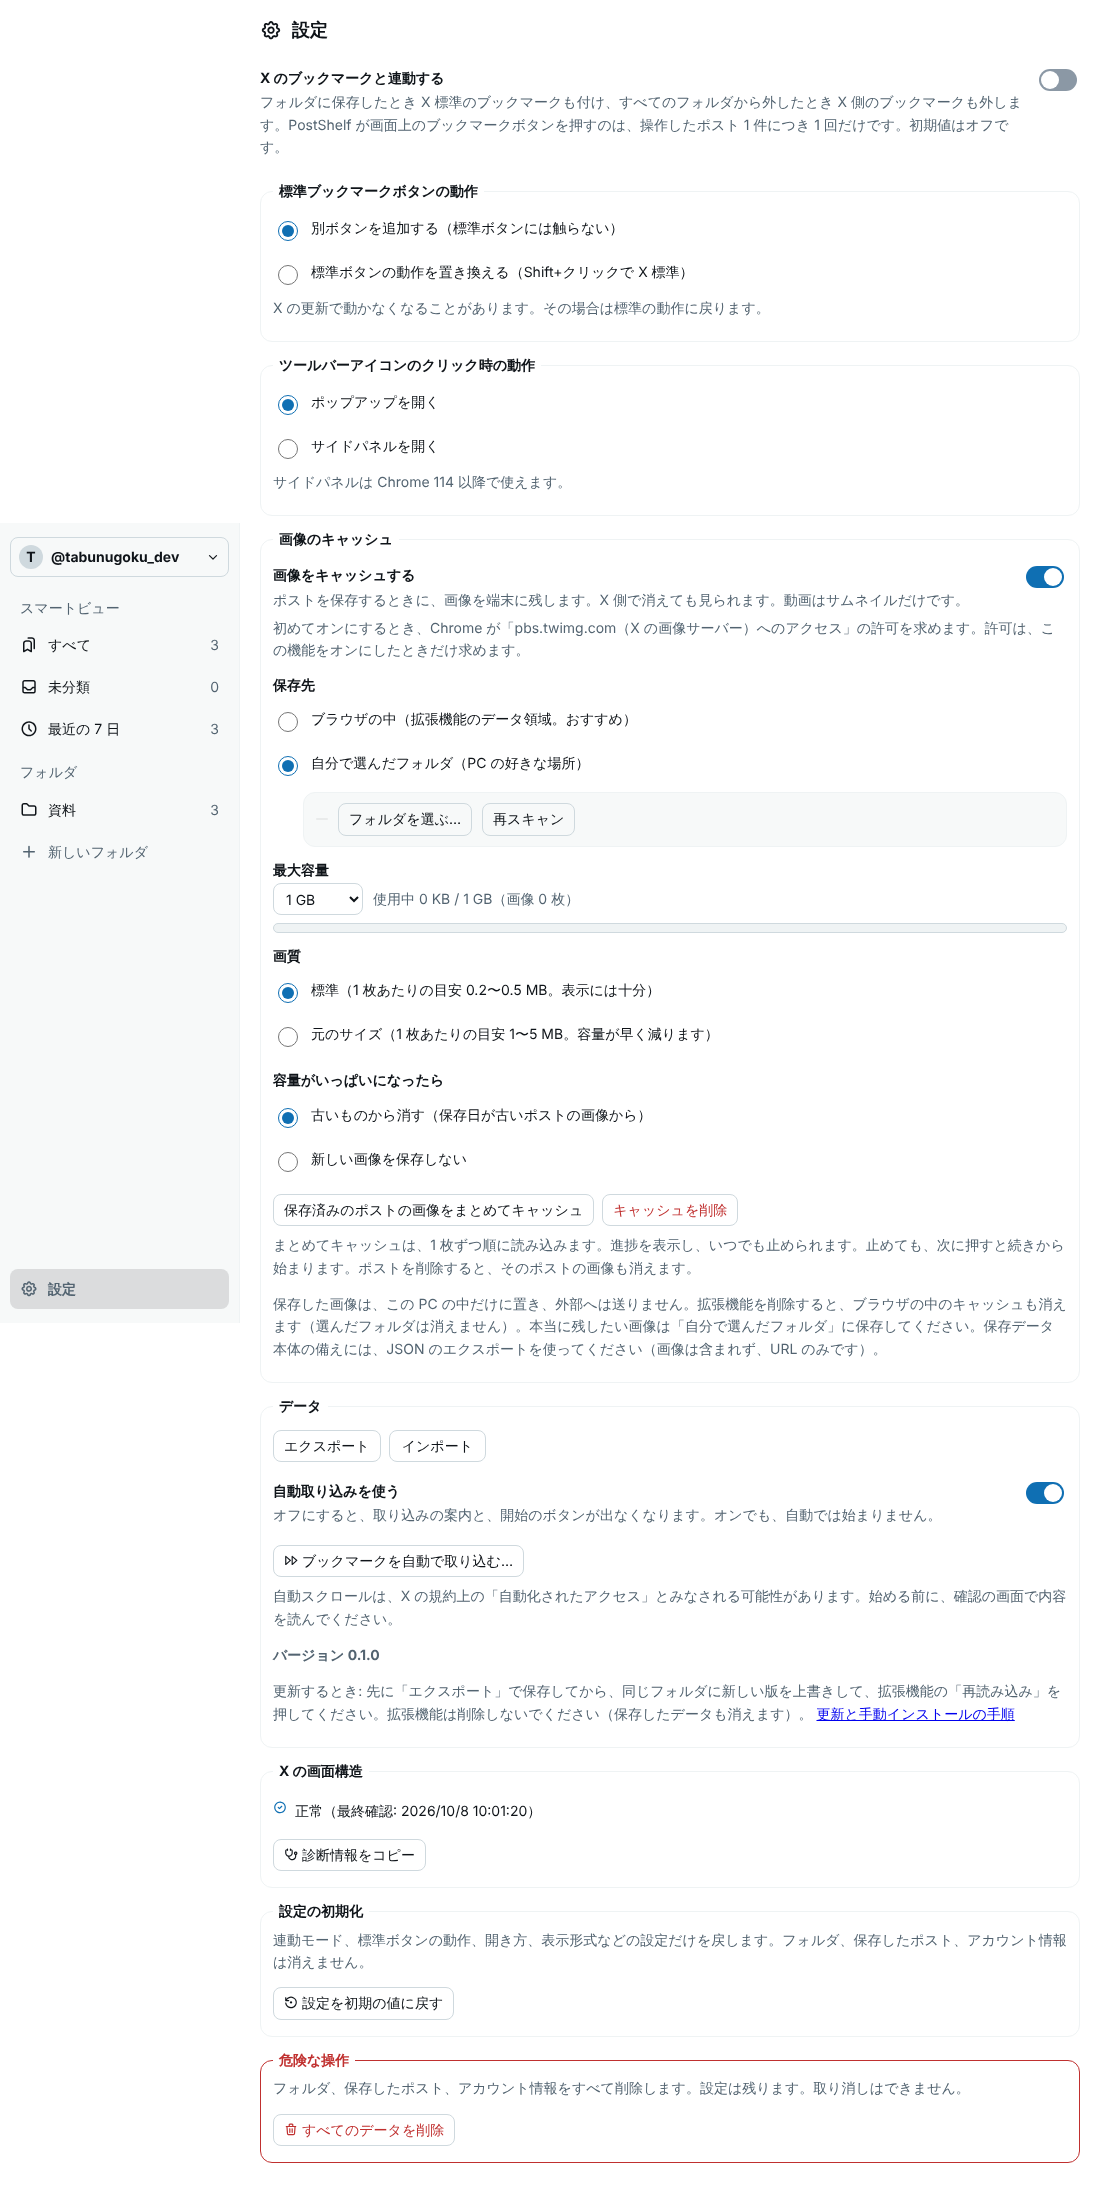
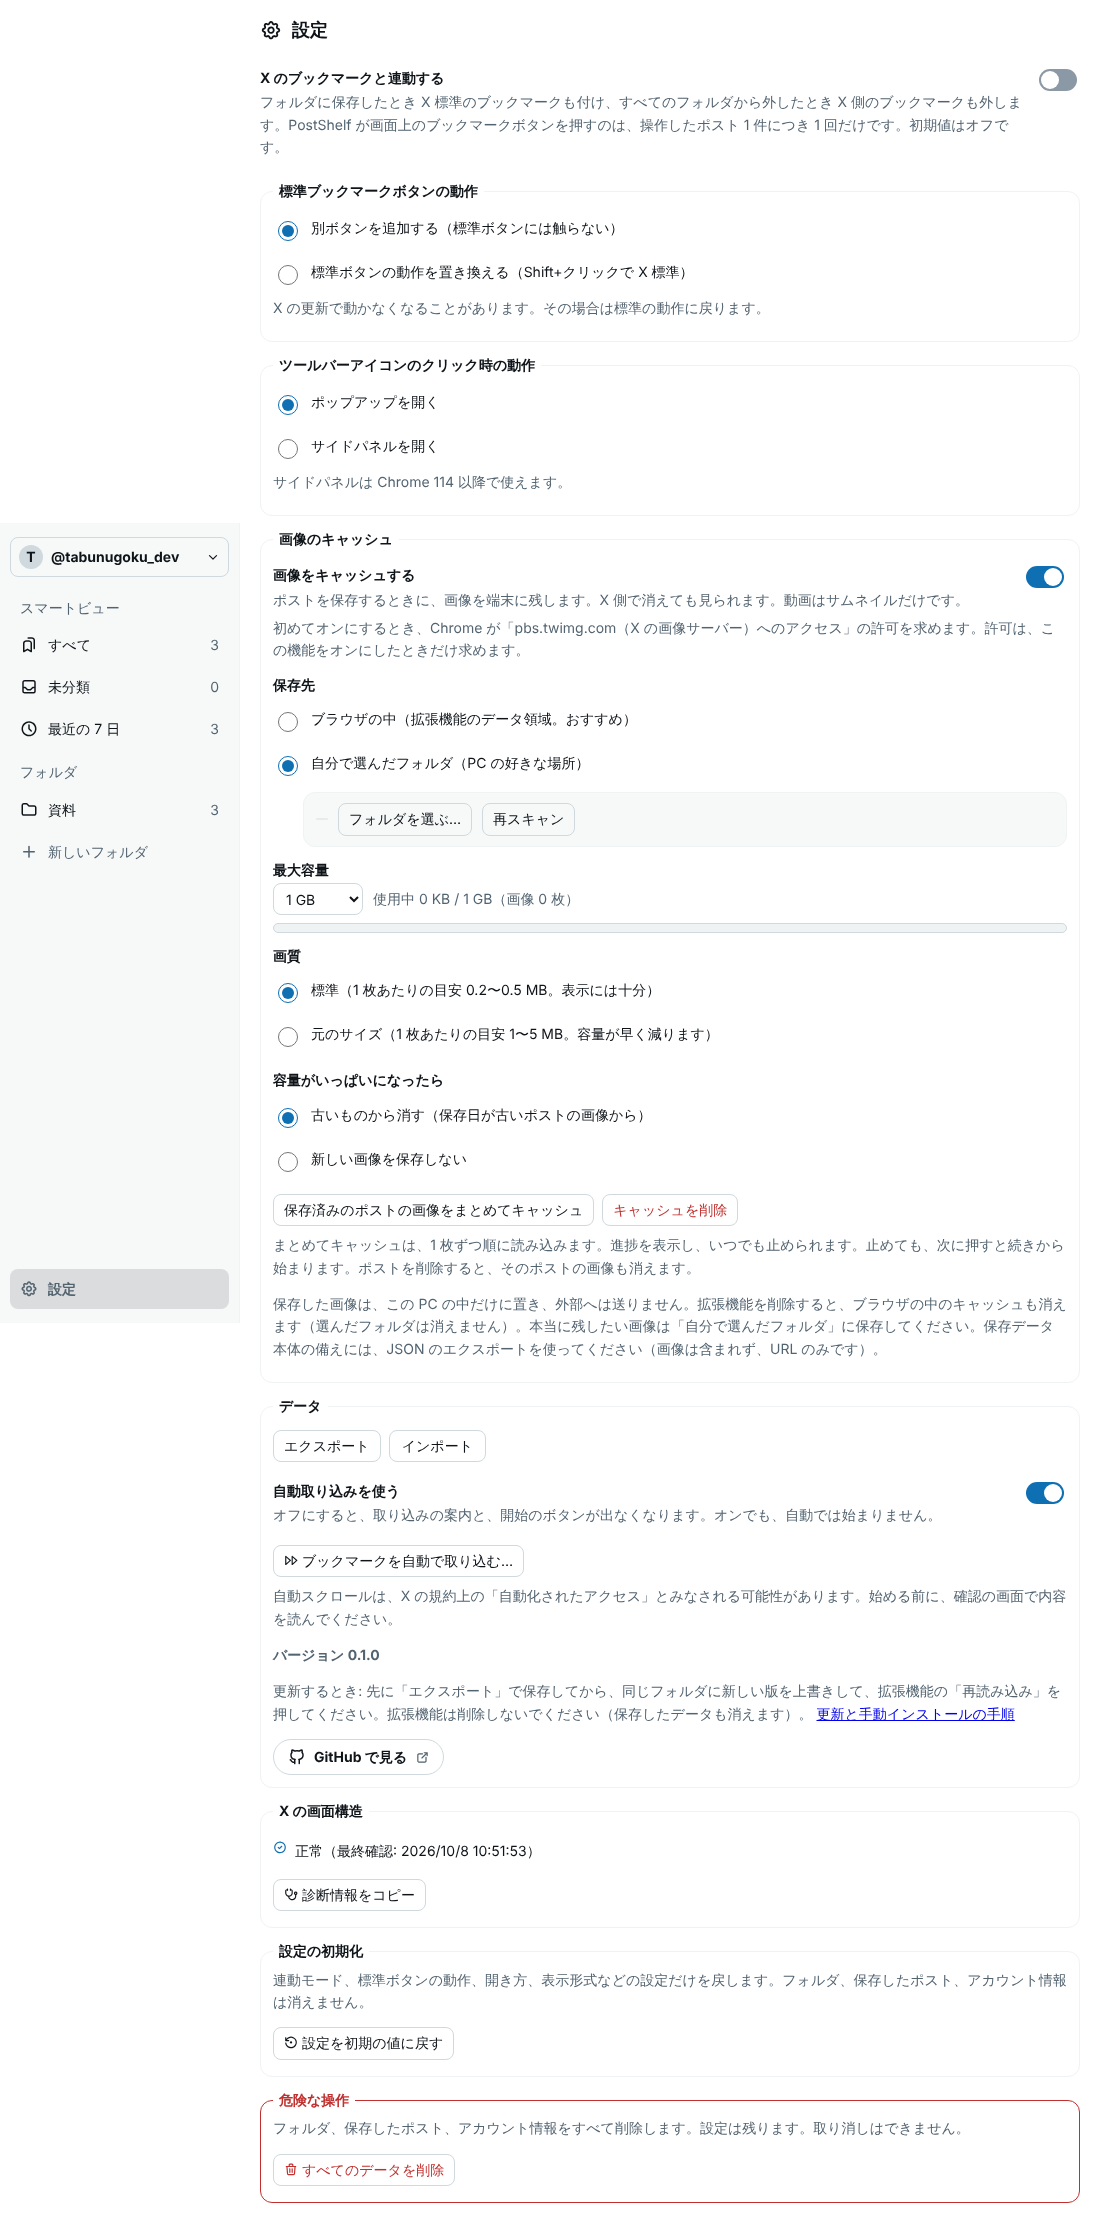
v23-B: GitHub のリンクのテスト、MANUAL_TEST、PUBLISH の確認項目、スクリーンショットの撮り直し
Claude-Session: https://claude.ai/code/session_01LnJgDCHXRj2XU4oDVsQkv2

diff --git a/test/v23.test.tsx b/test/v23.test.tsx
@@ -1,0 +1,64 @@
+import { act } from 'preact/test-utils';
+import { render } from 'preact';
+import { readFileSync, readdirSync } from 'node:fs';
+import { join } from 'node:path';
+import { afterEach, beforeEach, describe, expect, it } from 'vitest';
+import { installChromeMock } from './chrome-mock';
+import { SettingsPage } from '../src/manager/Settings';
+import { REPO_URL } from '../src/shared/links';
+
+const $ = <T extends Element>(s: string) => document.querySelector<T>(s)!;
+
+beforeEach(async () => {
+  installChromeMock();
+  document.body.innerHTML = '<div id="app"></div>';
+  await act(() => void render(<SettingsPage onChanged={() => {}} onApplied={() => {}} onNotice={() => {}} />, $('#app')));
+  await act(() => new Promise<void>((r) => setTimeout(r, 20)));
+});
+afterEach(() => render(null, $('#app')));
+
+describe('v23: 設定画面の GitHub のリンク', () => {
+  it('is an <a> at the bottom of the data group, under the version, opening the repository in a new tab safely', () => {
+    const a = $<HTMLAnchorElement>('a.link-btn');
+    expect(a.tagName).toBe('A');
+    expect(a.getAttribute('href')).toBe('https://github.com/tabunugoku/PostShelf');
+    expect(a.getAttribute('href')).toBe(REPO_URL);
+    expect(a.target).toBe('_blank');
+    expect(a.rel).toContain('noopener');
+    expect(a.rel).toContain('noreferrer');
+    expect(a.textContent?.trim()).toBe('GitHub で見る');
+    expect(a.getAttribute('aria-label')).toBe('GitHub で見る（新しいタブで開きます）');
+    const icons = [...a.querySelectorAll('i')].map((i) => i.className);
+    expect(icons[0]).toContain('ti-brand-github'); // 左にロゴ
+    expect(icons[1]).toContain('ti-external-link'); // 右に外部リンク
+    const group = a.closest('fieldset')!;
+    const kids = [...group.children];
+    expect(kids.indexOf(a.closest('.repo-link')!)).toBeGreaterThan(kids.indexOf($('.version-info')));
+    expect(a.tabIndex).toBe(0); // Tab で届く (a[href] は標準でフォーカスできる)
+  });
+
+  it('the settings text already shown is unchanged (version, update guide)', () => {
+    expect($('.version-info').textContent).toContain('バージョン');
+    expect(document.body.textContent).toContain('更新と手動インストールの手順');
+  });
+
+  it('the repository URL is defined in one place only (src/shared/links.ts)', () => {
+    const hits: string[] = [];
+    const walk = (dir: string) => {
+      for (const e of readdirSync(dir, { withFileTypes: true })) {
+        const p = join(dir, e.name);
+        if (e.isDirectory()) walk(p);
+        else if (/\.(ts|tsx)$/.test(e.name) && readFileSync(p, 'utf8').includes('github.com/tabunugoku/PostShelf')) hits.push(p);
+      }
+    };
+    walk('src');
+    expect(hits).toEqual([join('src', 'shared', 'links.ts')]);
+    expect(readFileSync('src/shared/links.ts', 'utf8').match(/github\.com\/tabunugoku\/PostShelf/g)).toHaveLength(1);
+  });
+
+  it('adds no permission and no network code: the link is a plain anchor', () => {
+    const m = JSON.parse(readFileSync('static/manifest.json', 'utf8'));
+    expect(m.permissions).toEqual(['storage', 'unlimitedStorage', 'sidePanel']);
+    expect(m.host_permissions).toEqual(['https://x.com/*', 'https://twitter.com/*']);
+  });
+});

diff --git a/docs/MANUAL_TEST.md b/docs/MANUAL_TEST.md
@@ -309,3 +309,8 @@
 - [ ] **結果の帯を閉じる**: 自動取り込みを終えたあと (完了、または停止)、管理画面の結果の帯を「閉じる」で閉じる。管理画面を開き直しても、出ない。x.com 右下のパネルの「閉じる」で閉じた場合も同じで、開いている管理画面の帯も消える
 - [ ] **進行中は残る**: 取り込みの途中 (動いている / 一時停止 / 制限で停止) で管理画面を開き直しても、進行中の帯は、これまでどおり出る。閉じる操作では記録が消えない
 - [ ] **放置した結果**: 閉じずに 24 時間たった完了 / 停止の結果は、管理画面を開いても出ない (24 時間待てなければ、確認できなかったと書く)
+
+## v23: 設定画面の「GitHub で見る」
+- [ ] 設定の一番下 (バージョン表示と更新の手順の下) に、GitHub のロゴ付きの丸いボタン「GitHub で見る」(右に小さな外部リンクのアイコン) が出る。押すと、新しいタブで `https://github.com/tabunugoku/PostShelf` が開く。リポジトリが非公開のあいだは、ログインしていない人には 404 になる (公開前に `docs/PUBLISH.md` の確認項目を行う)
+- [ ] ライト / ダークのどちらでも読める。Tab キーで届いてフォーカスが見え、Enter で開く。スクリーンリーダーでは「GitHub で見る (新しいタブで開きます)」と読まれる
+- [ ] 拡張自身は通信しない (DevTools の Network に、PostShelf が起こした通信が無い。新しいタブはブラウザが開く)

diff --git a/docs/PUBLISH.md b/docs/PUBLISH.md
@@ -45,6 +45,7 @@ MIT に決定済みです。`LICENSE` に全文があり、`README.md` の「ラ
 以下は、Chrome Web Store に公開する場合の準備メモです。配布は手動インストールなので、いまは行いません。
 
 - [ ] 実機確認 (`docs/MANUAL_TEST.md`) を全項目実施
+- [ ] GitHub のリポジトリを公開にしてから配る (設定画面の「GitHub で見る」のリンクは、リポジトリが非公開のあいだ、他の人には 404 になる。リンク先は `src/shared/links.ts` の `REPO_URL` の 1 か所)
 - [ ] Chrome Web Store で「PostShelf」の同名拡張がないか再確認
 - [x] 拡張機能アイコン: `manifest.json` の `icons` (16/32/48/128) と `action.default_icon` (16/32/48) に設定済み
 - [ ] ストア掲載用のアイコン画像: 128px = `static/brand/icon-128.png`、512px = `docs/brand/icon-512.png` (ソース SVG は `docs/brand/icon.svg`、確認用 `docs/brand/preview.png`)。青 (#1D9BF0) の吹き出しと白い栞だけ (背景なし。ライト・ダークのどちらでも見える)。X のロゴは使っていない
